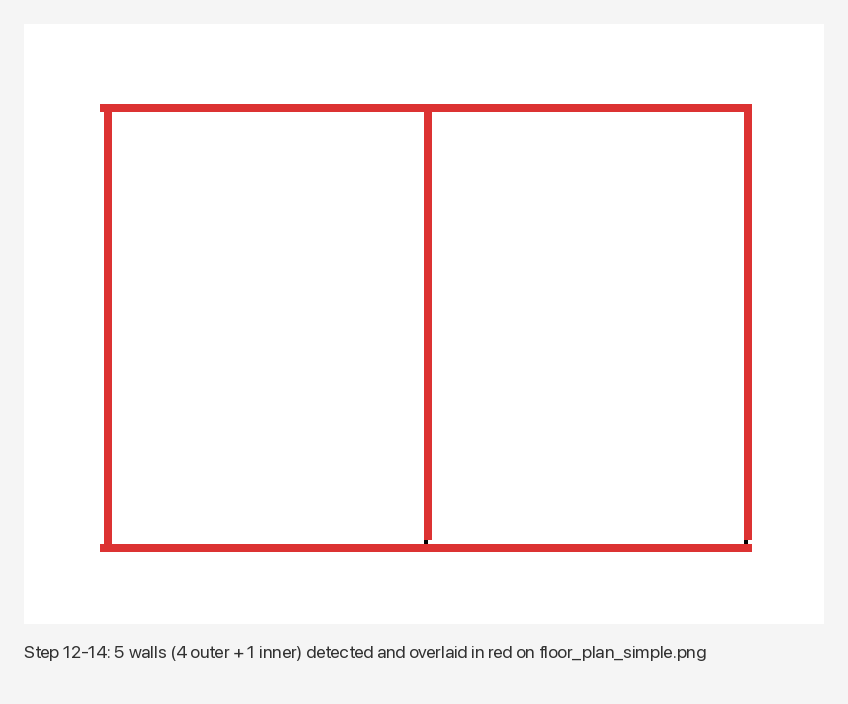
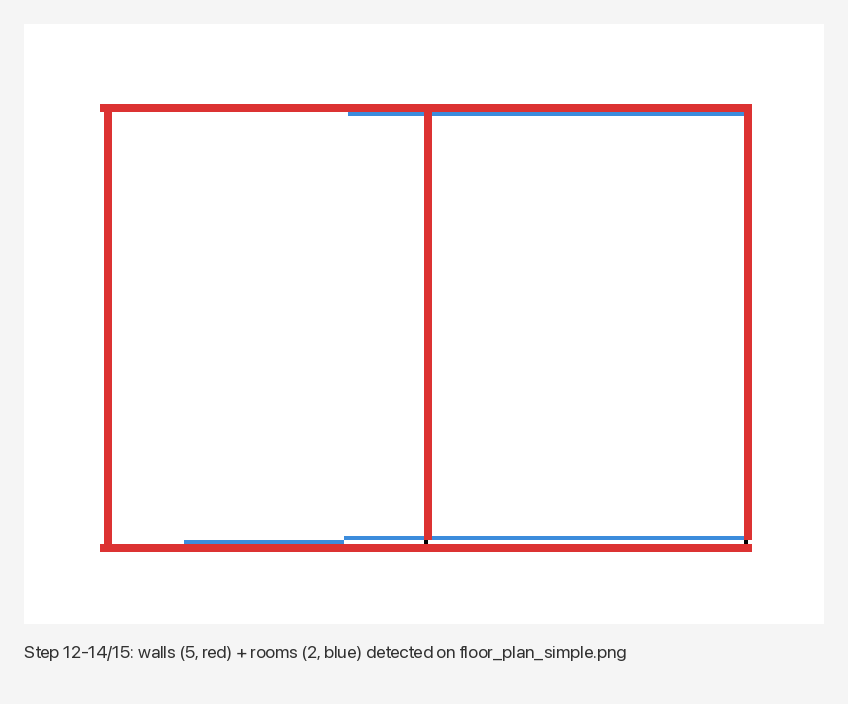
feat(step12-15): extract-walls --with-rooms で walls の閉路から rooms[] を自動生成
Step 12-13 までの walls 抽出を活かして、shapely.snap → unary_union →
polygonize で閉路を polygon として列挙し、building 中間 JSON に rooms[] を
詰めて出すようにする。Hough の端点不一致 (Step 12-12 で axis-aligned merge
した後でも壁同士が数 px 離れる) は snap_tol_px で吸収する。

- building/extract.py:
  - extract_walls() に with_rooms=False / room_floor_thickness_mm=2.0 /
    room_snap_tol_px=3.0 引数を追加
  - _extract_rooms_from_walls() を新設。shapely.snap で端点吸着 →
    unary_union で交点分割 → polygonize で閉路を polygon に → rooms[]
    entry に変換 (label は room_<i>、floor_thickness_mm は共通)
  - snap default が 3.0 なのは、shapely.snap が strict < で 2 px gap には
    2.0 では足りないため
- cli.py: extract-walls に --with-rooms / --no-rooms /
  --room-floor-thickness-mm / --room-snap-tol-px を追加
- ui_streamlit.py: Extract form に同じ 3 つを追加 + overlay 描画に
  rooms[] の polygon outline (青、1 px) を walls の前段に追加。success
  メッセージとキャプションに rooms=N を含める
- docs/screenshots/overlay-preview.png を with_rooms=True 版に差し替え
  (再生成手順は screenshots/README.md 末尾)
- development-plan.md に Step 12-15 セクション + やらないこと表に行を追加

検証:
- floor_plan_simple.png --with-rooms → walls=5 + rooms=2 watertight STL
  (md5 54168ea0f0ea41093bb0aa5a4c3b36d6)
- --with-rooms 無し → md5 5d84a7f57f9cc4ad3bcb8fbd6c76b79d (Step 12-13 と同じ)
- 既存 9 サンプル md5 不変

Changed region(s): [[0.1226, 0.9062, 0.8278, 0.9375], [0.2146, 0.75, 0.8892, 0.7812], [0.3986, 0.1562, 0.8892, 0.1875]]

diff --git a/python/meshforge/ui_streamlit.py b/python/meshforge/ui_streamlit.py
@@ -399,6 +399,17 @@ def _render_extract_overlay(
         )
     rgb = gray.convert("RGB")
     draw = ImageDraw.Draw(rgb)
+    # rooms[] を先に描く (青の細線で polygon outline) ので、後で重ねる赤い
+    # walls 線が前景になる。Step 12-15 で `with_rooms=True` のとき walls の
+    # 中心線と room polygon の辺がだいたい一致するため、walls が前景の方が
+    # 自然 (青はちらっと見える程度で、検出された rooms 数が分かれば十分)。
+    for room in spec.get("rooms", []):
+        coords = [
+            (float(x) * scale, float(y) * scale) for x, y in room["polygon"]
+        ]
+        if len(coords) >= 2:
+            coords.append(coords[0])
+            draw.line(coords, fill=(60, 140, 220), width=1)
     for wall in spec.get("walls", []):
         x1, y1 = wall["start"]
         x2, y2 = wall["end"]
@@ -490,6 +501,27 @@ def _building_spec_from_image_extract() -> tuple[dict, str] | None:
                 key="extract-merge-gap",
                 disabled=not merge,
             )
+            with_rooms = st.checkbox(
+                "Auto-extract rooms (Step 12-15)",
+                value=False,
+                key="extract-with-rooms",
+                help="walls の閉路を shapely.polygonize で検出して rooms[] に "
+                     "追加する。建てたあと床スラブが出る。",
+            )
+            room_floor_thickness_mm = st.number_input(
+                "Room floor thickness (mm)",
+                min_value=0.001, value=2.0, step=0.5, format="%.2f",
+                key="extract-room-floor",
+                disabled=not with_rooms,
+            )
+            room_snap_tol_px = st.number_input(
+                "Room snap tolerance (px)",
+                min_value=0.0, value=3.0, step=0.5, format="%.2f",
+                key="extract-room-snap",
+                disabled=not with_rooms,
+                help="shapely.snap の strict `<` 判定なので、2 px gap には "
+                     "3.0 が要る。Hough の端点不一致を吸収する。",
+            )
         submitted = st.form_submit_button(
             "Extract & Build",
             type="primary",
@@ -520,6 +552,9 @@ def _building_spec_from_image_extract() -> tuple[dict, str] | None:
                     min_length_mm=min_length_mm,
                     wall_thickness_mm=wall_thickness_mm,
                     wall_height_mm=wall_height_mm,
+                    with_rooms=with_rooms,
+                    room_floor_thickness_mm=room_floor_thickness_mm,
+                    room_snap_tol_px=room_snap_tol_px,
                     merge=merge,
                     merge_distance_mm=merge_distance_mm,
                     merge_angle_deg=merge_angle_deg,
@@ -553,13 +588,17 @@ def _building_spec_from_image_extract() -> tuple[dict, str] | None:
             Path(tmp_path).unlink(missing_ok=True)
 
     n_walls = len(spec.get("walls", []))
-    st.success(f"extracted walls={n_walls}")
+    n_rooms = len(spec.get("rooms", [])) if with_rooms else 0
+    summary_msg = f"extracted walls={n_walls}"
+    if with_rooms:
+        summary_msg += f", rooms={n_rooms}"
+    st.success(summary_msg)
     if overlay_image is not None:
-        st.image(
-            overlay_image,
-            caption=f"Detected walls ({n_walls} segments) overlaid on input image",
-            use_container_width=True,
-        )
+        caption = f"Detected walls ({n_walls} segments)"
+        if with_rooms:
+            caption += f" + rooms ({n_rooms})"
+        caption += " overlaid on input image"
+        st.image(overlay_image, caption=caption, use_container_width=True)
     json_basename = Path(uploaded.name).with_suffix(".json").name
     st.download_button(
         "Download walls JSON",

diff --git a/python/meshforge/cli.py b/python/meshforge/cli.py
@@ -236,6 +236,27 @@ def _add_extract_walls_args(c: argparse.ArgumentParser) -> None:
              "stay as separate walls, so door openings and adjacent rooms don't "
              "fuse into one wall; default 2.0 (set 0 to require overlap)",
     )
+    c.add_argument(
+        "--with-rooms", dest="with_rooms",
+        action=argparse.BooleanOptionalAction, default=False,
+        help="auto-detect rooms[] by polygonizing the wall network (Step 12-15). "
+             "default off; needs shapely (in 'building' extra).",
+    )
+    c.add_argument(
+        "--room-floor-thickness-mm", dest="room_floor_thickness_mm",
+        type=float, default=2.0, metavar="V",
+        help="floor slab thickness for auto-extracted rooms (mm); default 2.0. "
+             "ignored without --with-rooms.",
+    )
+    c.add_argument(
+        "--room-snap-tol-px", dest="room_snap_tol_px",
+        type=float, default=3.0, metavar="V",
+        help="endpoint snap tolerance in px for room polygonization; default 3.0. "
+             "shapely.snap は strict `<` 判定なので、floor_plan_simple の "
+             "中央壁の 2 px gap には 2.0 では足りず 3.0 が要る。Hough の端点 "
+             "不一致を吸収するために必要 (0 にすると壁同士が完全に touch しない "
+             "と閉路が見つからない)。ignored without --with-rooms.",
+    )
 
 
 def build_parser() -> argparse.ArgumentParser:
@@ -441,6 +462,9 @@ def cmd_extract_walls(args: argparse.Namespace) -> int:
             merge_distance_mm=args.merge_distance_mm,
             merge_angle_deg=args.merge_angle_deg,
             merge_gap_mm=args.merge_gap_mm,
+            with_rooms=args.with_rooms,
+            room_floor_thickness_mm=args.room_floor_thickness_mm,
+            room_snap_tol_px=args.room_snap_tol_px,
         )
     except (OSError, ValueError, ImportError) as e:
         print(f"extract-walls error: {e}", file=sys.stderr)

diff --git a/docs/development-plan.md b/docs/development-plan.md
@@ -560,11 +560,56 @@
     `fbfad66c3a17f9e06b144f1ccd1d7f0f` /
     `e1a9015cb867a476c59d3fe9018fd96c`)。
 
-- **Step 12-15 以降 (構想)**: 任意角度・斜め線分のマージ・壁厚自動検出・
-  rooms / openings / roof の自動抽出 (OpenCV) / Claude API による意味付け /
+- **Step 12-15**: `extract-walls` に `--with-rooms` を追加し、検出された
+  walls の閉路から `rooms[]` を自動生成する。shapely の `snap` →
+  `unary_union` → `polygonize` を素直に組み合わせて閉路を polygon として
+  列挙し、`floor_thickness_mm` を共通値で詰めて返す。
+  - `building/extract.py`:
+    - `extract_walls()` に `with_rooms: bool = False`,
+      `room_floor_thickness_mm: float = 2.0`, `room_snap_tol_px: float = 3.0`
+      引数を追加
+    - `_extract_rooms_from_walls(walls_px, *, snap_tol_px, floor_thickness_mm)`
+      を新設。`shapely.snap(MultiLineString, MultiLineString, tol)` で端点を
+      他線分に吸着 (Hough の端点不一致を吸収) → `unary_union` で交点で分割
+      → `polygonize` で閉路を polygon に → 各 polygon を rooms[] entry
+      (label は `room_<i>` のシリアル番号、floor_thickness_mm は共通値)
+    - snap tol の default を 3.0 にしたのは、`shapely.snap` が strict `<`
+      判定で、floor_plan_simple.png の中央壁の 2 px gap には 2.0 では
+      足りないため
+    - `with_rooms=False` のときは既存挙動を変えない (rooms キー無し JSON)
+  - `cli.py`: `extract-walls` に `--with-rooms` / `--no-rooms` /
+    `--room-floor-thickness-mm` / `--room-snap-tol-px` を追加
+  - `ui_streamlit.py`: Extract form に同じ 3 つを追加 + overlay 描画に
+    rooms[] の polygon outline (青、1 px) を walls の前段に追加。success
+    メッセージとキャプションに `rooms=N` を含める
+  - `docs/screenshots/overlay-preview.png` を `with_rooms=True` 版に
+    差し替え (再生成手順は [`docs/screenshots/README.md`](screenshots/README.md)
+    末尾のセクションを更新)
+  - 依存追加なし (shapely は `building` extra に既に入っている)
+  - **やらないこと**: openings / roof / furniture の自動抽出・部屋の意味
+    分類 (kitchen / bathroom 等)・部屋の家具自動配置・snap tolerance の
+    自動推定 (固定値)・凹形 polygon の特別扱い (polygonize の結果を
+    そのまま採用)・部屋同士の重なり / 隔離不能の警告・任意角度・斜め壁
+    の merge (Step 12-12 同様 axis-aligned only に依存)・Claude API による
+    label 推定・room polygon の手動編集 UI
+  - **完了条件**: `python -m meshforge extract-walls
+    samples/floor_plan_simple.png --pixel-mm 0.5 --wall-thickness-mm 4.0
+    --wall-height-mm 24.0 --min-length-mm 30.0 --with-rooms
+    -o /tmp/rooms.json` で walls=5 / rooms=2 の JSON が出る (Step 12-13
+    までの walls 5 本に加えて左室 + 右室)。`convert --config /tmp/rooms.json`
+    に流すと watertight STL (verts=56 faces=84、md5
+    `54168ea0f0ea41093bb0aa5a4c3b36d6`) が出る。`--with-rooms` 無しの
+    挙動は Step 12-14 と完全に同じで、extract → convert 出力は md5
+    `5d84a7f57f9cc4ad3bcb8fbd6c76b79d` 不変。既存 9 サンプル
+    (building_minimal / floor / door / roof / gable / hip / pyramidal /
+    furniture / dome.png) の CLI 出力 md5 も不変。
+
+- **Step 12-16 以降 (構想)**: 任意角度・斜め線分のマージ・壁厚自動検出・
+  openings / roof の自動抽出 (OpenCV) / Claude API による意味付け /
   不等辺四角錐 / mansard / eaves overhang・kind 別の家具形状 /
   Streamlit UI への building JSON フォーム編集・extract overlay の編集 UI 化
-  (drag で walls を動かす)・kind 別 overlay 色分け。
+  (drag で walls を動かす)・kind 別 overlay 色分け・room の label 推定
+  (kitchen / bathroom 等)・rooms の手動編集 UI。
 
 ### Step 13 以降 (構想のみ、ここでは確定しない)
 - マルチバンド UI 編集（Streamlit に layers フォームを追加）
@@ -602,6 +647,7 @@
 | Step 12-12 | 任意角度・斜め線分の merge・複数 cluster をまたぐ merge・rooms/openings/roof/furniture の自動抽出・Claude API 意味付け・Streamlit UI 露出 |
 | Step 12-13 | building JSON のフォーム編集・Extract パラメータプリセット・Claude API 連携・複数ページ PDF・extract 結果のセッション間保持・extract 結果のブラウザ上での可視化 (line overlay 等) |
 | Step 12-14 | 編集 UI (drag で walls を動かす / 追加)・kind 別の色分け・壁厚の polygon 描画・rooms / openings / roof / furniture の overlay・重なり / 異常箇所のハイライト・CLI への `--overlay` 出力・overlay 色 / 線幅の widget 化・実 UI 上の overlay の自動撮影 (overlay-preview.png で代替) |
+| Step 12-15 | openings / roof / furniture の自動抽出・部屋の意味分類 (kitchen/bathroom 等)・部屋の家具自動配置・snap tolerance の自動推定・凹形 polygon の特別扱い・部屋同士の重なり / 隔離不能の警告・任意角度・斜め壁の merge・Claude API による label 推定・room polygon の手動編集 UI |
 
 ## 着手判断
 

diff --git a/docs/screenshots/README.md b/docs/screenshots/README.md
@@ -123,6 +123,8 @@ Streamlit の file_uploader は React 由来の事情で headless CDP からは
 同じ PIL ロジックを直接呼び出して overlay 画像を生成し、それを
 `overlay-preview.png` として置く運用にしている。
 
+Step 12-15 で `with_rooms=True` の場合に rooms 輪郭 (青) も追加。
+
 7. リポジトリ直下で:
 
    ```sh
@@ -136,10 +138,16 @@ Streamlit の file_uploader は React 由来の事情で headless CDP からは
        "samples/floor_plan_simple.png",
        pixel_mm=0.5, wall_thickness_mm=4.0,
        wall_height_mm=24.0, min_length_mm=30.0,
+       with_rooms=True,
    )
    gray = load_grayscale("samples/floor_plan_simple.png", 150.0)
    rgb = gray.convert("RGB")
    draw = ImageDraw.Draw(rgb)
+   for room in spec.get("rooms", []):
+       coords = [(float(x), float(y)) for x, y in room["polygon"]]
+       if len(coords) >= 2:
+           coords.append(coords[0])
+           draw.line(coords, fill=(60, 140, 220), width=1)
    for w in spec["walls"]:
        x1, y1 = w["start"]; x2, y2 = w["end"]
        draw.line([(float(x1), float(y1)), (float(x2), float(y2))],
@@ -156,12 +164,12 @@ Streamlit の file_uploader は React 由来の事情で headless CDP からは
    except Exception:
        font = ImageFont.load_default()
    draw2.text((pad, scaled.height + pad + 16),
-       "Step 12-14: 5 walls (4 outer + 1 inner) detected and "
-       "overlaid in red on floor_plan_simple.png",
+       "Step 12-14/15: walls (5, red) + rooms (2, blue) detected on "
+       "floor_plan_simple.png",
        fill=(50, 50, 50), font=font)
    canvas.save("docs/screenshots/overlay-preview.png", optimize=True)
    PY
    ```
 
    キャプション文言は Step が進む / extract パラメータが変わる時に
-   合わせて更新する。サンプル画像 / パラメータが同じなら 5 本のまま。
+   合わせて更新する。サンプル画像 / パラメータが同じなら walls=5 / rooms=2 のまま。